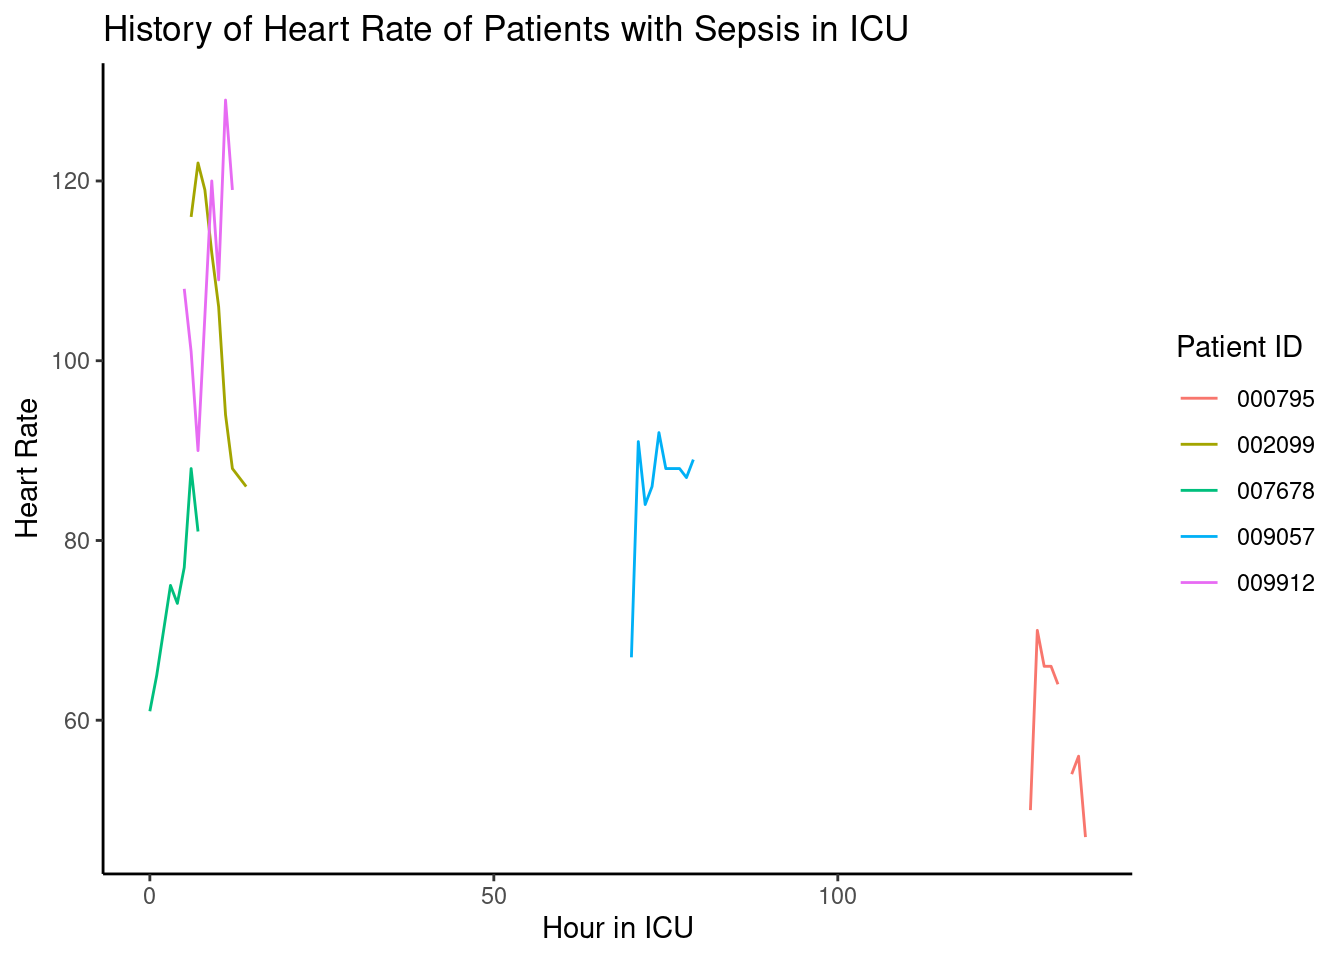
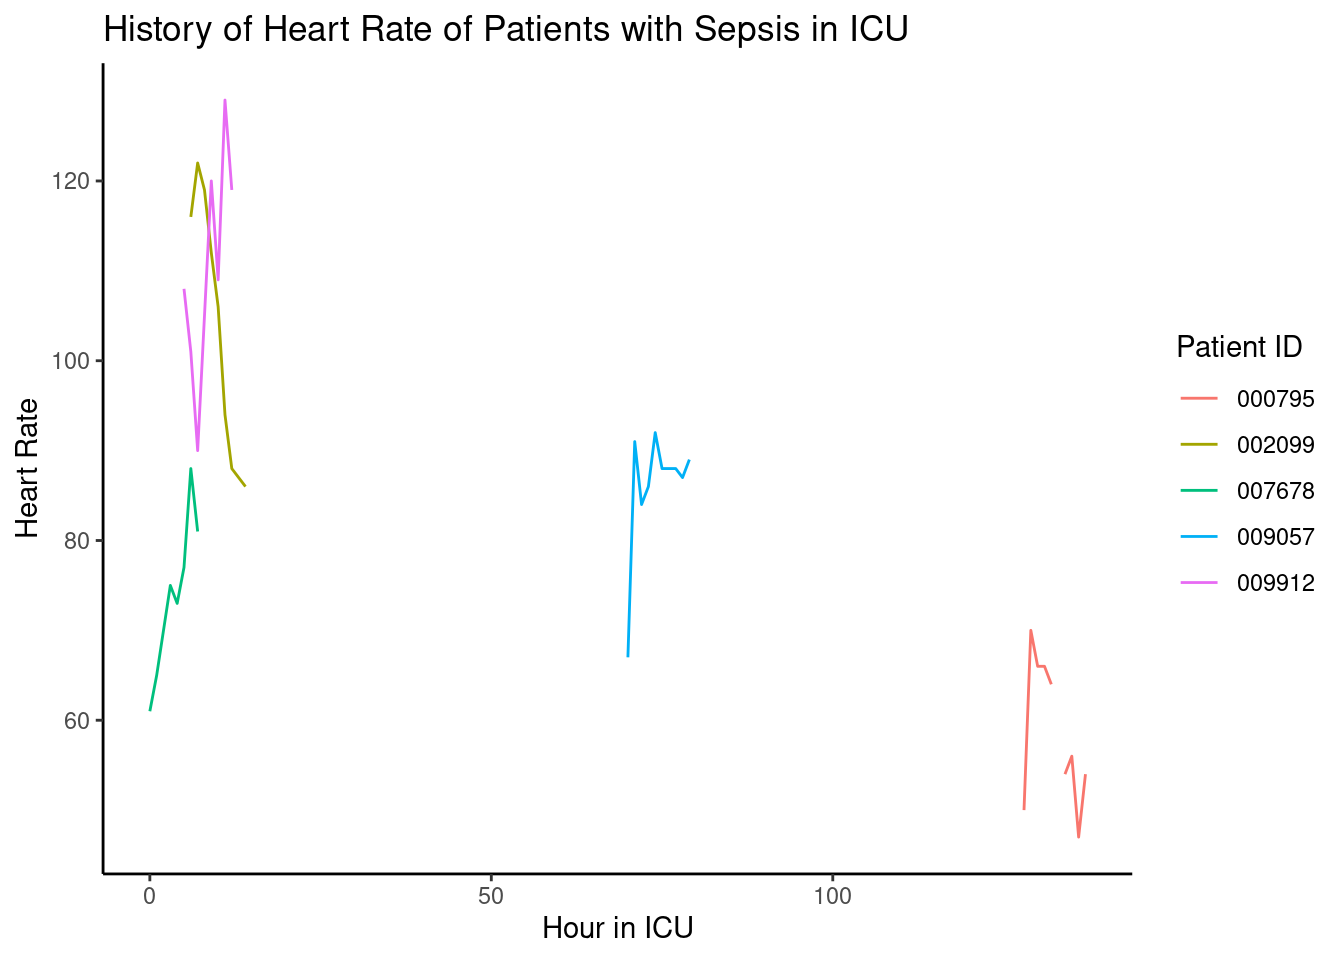
Updated report

diff --git a/HW7.html b/HW7.html
@@ -72,7 +72,7 @@ ul.task-list li input[type="checkbox"] {
 
 <div class="cell">
 <div class="cell-output cell-output-stdout">
-<pre><code>This report was updated at 2023-04-12 05:18:31 CDT</code></pre>
+<pre><code>This report was updated at 2023-04-12 06:24:16 CDT</code></pre>
 </div>
 </div>
 <div class="cell">
@@ -91,7 +91,7 @@ ul.task-list li input[type="checkbox"] {
 <tbody>
   <tr>
    <td style="text-align:left;"> 000795 </td>
-   <td style="text-align:right;"> 47 </td>
+   <td style="text-align:right;"> 54 </td>
    <td style="text-align:right;"> NA </td>
    <td style="text-align:right;"> 18 </td>
   </tr>
@@ -175,7 +175,7 @@ ul.task-list li input[type="checkbox"] {
   </tr>
   <tr>
    <td style="text-align:left;font-weight: bold;color: black !important;background-color: lightgrey !important;border-right:1px solid;"> 000795 </td>
-   <td style="text-align:right;"> -9 </td>
+   <td style="text-align:right;"> 7 </td>
    <td style="text-align:right;"> NA </td>
    <td style="text-align:right;"> 0 </td>
   </tr>
